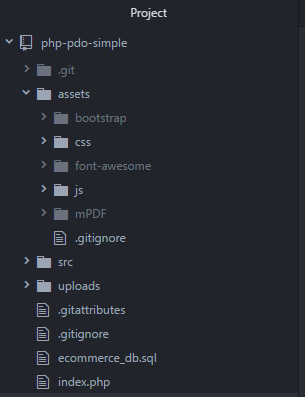
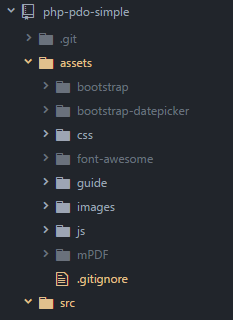
64 - Report การใช้งาน Date Picker + Print PDF

diff --git a/src/pages/admin/report/order.php b/src/pages/admin/report/order.php
@@ -1,9 +1,11 @@
 <?php admin_init(); ?>
 <?php
 // $app['layout'] = __DIR__ . '/../../../layouts/pdf.php';
+$start_date = (isset($_POST['start_date'])) ? $_POST['start_date'] : '';
+$end_date = (isset($_POST['end_date'])) ? $_POST['end_date'] : '';
 $find_by_date_range = '';
 if($_POST){
-  $find_by_date_range = " AND orders.date >= DATE('{$_POST['start_date']}') AND orders.date <= DATE('{$_POST['end_date']}')";
+  $find_by_date_range = " AND orders.date >= '{$start_date}' AND orders.date <= '{$end_date} 23:59:59'";
 }
 $sql = "SELECT orders.*, COUNT(orders_items.id) as count_items, user.*, user_profile.*, orders.id as id, orders.status as status
 FROM orders
@@ -20,11 +22,23 @@ $result = $sth->fetchAll(PDO::FETCH_ASSOC);
 
 $statuses = cart_stateses();
 ?>
-<form method="post">
-  <input type="text" name="start_date" value="2017-09-01">
-  <input type="text" name="end_date" value="2017-09-30">
-  <button type="submit">Go.</button>
+<form method="post" class="form-inline">
+  <div class="form-group mx-sm-3">
+    <label for="start_date" class="sr-only">Start Date</label>
+    <input type="text" class="form-control date_picker" name="start_date" id="start_date" placeholder="Start Date" value="<?= (isset($_POST['start_date'])) ? $_POST['start_date'] : ''?>">
+  </div>
+  <div class="form-group mx-sm-3">
+    <label for="end_date" class="sr-only">End Date</label>
+    <input type="text" class="form-control date_picker" name="end_date" id="end_date" placeholder="End Date" value="<?= (isset($_POST['end_date'])) ? $_POST['end_date'] : ''?>">
+  </div>
+  <div class="col-auto">
+    <button type="submit" class="btn btn-primary">Go.</button>
+  </div>
 </form>
+<hr />
+<a href="?page=admin/report/order-print&start_date=<?=$start_date?>&end_date=<?=$end_date?>" class="btn btn-secondary" target="_blank">
+  Print
+</a>
 <table class="table table-striped border">
   <thead>
     <tr>
@@ -49,3 +63,13 @@ $statuses = cart_stateses();
     <?php endforeach; ?>
   </tbody>
 </table>
+
+<?php
+$app['jsScripts'][] = "
+$('.date_picker').datepicker({
+  format: 'yyyy-mm-dd'
+});";
+
+$app['cssFiles'][] = "assets/bootstrap-datepicker/css/bootstrap-datepicker.min.css";
+$app['jsFiles'][] = "assets/bootstrap-datepicker/js/bootstrap-datepicker.min.js";
+?>

diff --git a/src/pages/admin/report/order-print.php b/src/pages/admin/report/order-print.php
@@ -1,0 +1,50 @@
+<?php admin_init(); ?>
+<?php
+$app['layout'] = __DIR__ . '/../../../layouts/pdf.php';
+$start_date = (isset($_GET['start_date'])) ? $_GET['start_date'] : '';
+$end_date = (isset($_GET['end_date'])) ? $_GET['end_date'] : '';
+$find_by_date_range = '';
+if($start_date && $end_date){
+  $find_by_date_range = " AND orders.date >= '{$start_date}' AND orders.date <= '{$end_date} 23:59:59'";
+}
+
+$sql = "SELECT orders.*, COUNT(orders_items.id) as count_items, user.*, user_profile.*, orders.id as id, orders.status as status
+FROM orders
+LEFT OUTER JOIN orders_items ON orders.id = orders_items.orders_id
+INNER JOIN user ON user.id=orders.user_id
+INNER JOIN user_profile ON user.id=user_profile.id
+WHERE orders.status >= 2{$find_by_date_range}
+GROUP BY orders.id DESC
+";
+// echo $sql;
+$sth = $app['db']->prepare($sql);
+$sth->execute();
+$result = $sth->fetchAll(PDO::FETCH_ASSOC);
+
+$statuses = cart_stateses();
+?>
+<h3>แสดงรายการสั่งซื้อสินค้าจากวันที่ <?=date('d/m/Y', strtotime($start_date))?> ถึง <?=date('d/m/Y', strtotime($end_date))?></h3>
+<table class="table table-striped border">
+  <thead>
+    <tr>
+      <th>ID</th>
+      <th>Date</th>
+      <th>Send Address</th>
+      <th>Count</th>
+      <th>Customer</th>
+      <th>Status</th>
+    </tr>
+  </thead>
+  <tbody>
+    <?php foreach ($result as $orders) : ?>
+    <tr>
+      <th><?=$orders['id']?></th>
+      <td><?=date('d/m/Y h:i:s', strtotime($orders['date']))?></td>
+      <td><?=$orders['send_address']?></td>
+      <td><?=$orders['count_items']?></td>
+      <td><?=$orders['fullname']?></td>
+      <td><?=$statuses[intval($orders['status'])]?></td>
+    </tr>
+    <?php endforeach; ?>
+  </tbody>
+</table>

diff --git a/README.md b/README.md
@@ -7,17 +7,20 @@
 3. เปลี่ยนชื่อโฟลเดอร์ dist เป็น bootstrap
 
 
-
 ## ===========Font Awesome============
 1. ดาวนโหลด Font Awesome จากเว็บไซต์ http://fontawesome.io/ แล้วแตกไฟล์ zip
 2. copy โฟลเดอร์ font-awesome-x.x.x มาไว้ในโฟลเดอร์ [project/assets]
 3. เปลี่ยนชื่อโฟลเดอร์ font-awesome-x.x.x เป็น font-awesome
 
 
-
 ## ===========mPDF============
 1. ดาวนโหลด Font Awesome จากเว็บไซต์ https://github.com/mpdf/mpdf/releases แล้วแตกไฟล์ zip ลงในโฟลเดอร์ mPDF
 2. copy โฟลเดอร์ mPDF มาไว้ในโฟลเดอร์ [project/assets]
+
+
+# ===========bootstrap-datepicker============
+1. ดาวนโหลด bootstrap-datepicker จากเว็บไซต์ https://uxsolutions.github.io/bootstrap-datepicker แล้วแตกไฟล์ zip ลงในโฟลเดอร์ bootstrap-datepicker
+2. copy โฟลเดอร์ bootstrap-datepicker มาไว้ในโฟลเดอร์ [project/assets]
 
 
 ![file structure](https://raw.githubusercontent.com/kuakling/php-pdo-simple/master/assets/guide/file-structure.png)
